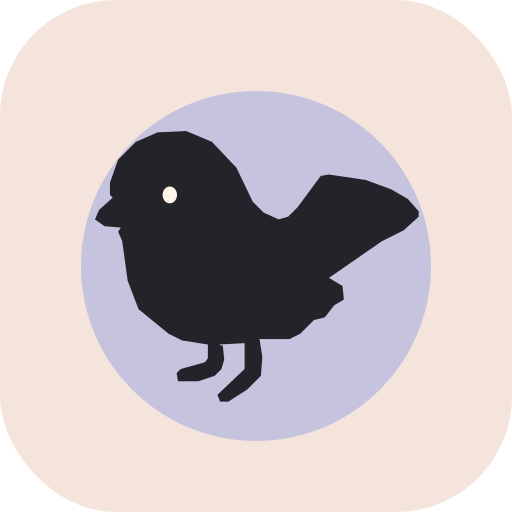
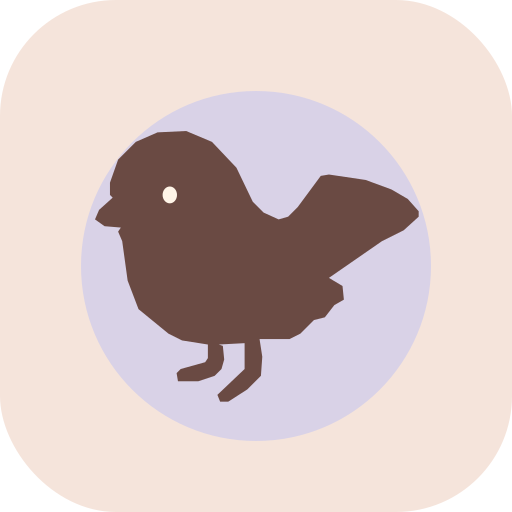
Add files via upload

Changed region(s): [[0.1875, 0.25, 0.8438, 0.7812]]

diff --git a/app.js b/app.js
@@ -27,13 +27,16 @@
   let hintIndex = -1;
   let usedStarters = {8: [], 10: []};
   let swipe = null;
+  let lastTap = null;
+  let lastPointerTapAt = 0;
+  const DOUBLE_TAP_MS = 340;
 
   try {
     const old = JSON.parse(localStorage.getItem(USED_KEY));
     if (old && typeof old === 'object') usedStarters = {...usedStarters, ...old};
   } catch (_) { /* storage may be disabled */ }
 
-  // The black bird silhouette is based on the supplied bird-emoji reference.
+  // The brown bird silhouette is based on the supplied bird-emoji reference.
   const birdSVG = `<svg viewBox="-7 -7 253 214" xmlns="http://www.w3.org/2000/svg" class="bird-drawing" aria-hidden="true"><path class="bird-shape" fill="currentColor" stroke="currentColor" stroke-width="1.4" stroke-linejoin="round" d="M 46 1 L 30 8 L 17 21 L 11 38 L 11 47 L 13 49 L 3 58 L 0 65 L 7 70 L 19 71 L 17 74 L 20 81 L 24 110 L 32 131 L 54 149 L 64 154 L 83 157 L 83 167 L 81 170 L 63 175 L 60 178 L 61 184 L 76 184 L 88 180 L 93 175 L 95 168 L 94 158 L 91 157 L 110 156 L 110 175 L 90 194 L 92 199 L 98 199 L 112 190 L 122 180 L 123 166 L 121 153 L 143 153 L 151 149 L 161 139 L 169 137 L 176 128 L 183 124 L 182 114 L 172 108 L 211 81 L 227 73 L 238 63 L 238 59 L 230 50 L 218 43 L 199 36 L 172 32 L 166 33 L 149 56 L 142 63 L 135 65 L 124 60 L 116 52 L 104 27 L 86 8 L 67 0 Z"/><ellipse class="bird-eye" cx="55" cy="47" rx="5.3" ry="6.2" fill="#fff5e8"/></svg>`;
   // The same silhouette is reused for color-region progress markers.
 
@@ -69,9 +72,10 @@
       const r = Math.floor(i / n), c = i % n;
       const mark = state.marks[i];
       const classes = ['cell'];
+      if (mark === 'x') classes.push('is-cross');
       if (hintIndex === i) classes.push('is-hinted');
       const glyph = mark === 'bird' ? birdSVG : mark === 'x' ? '<span class="cross">×</span>' : '';
-      const label = `${mark === 'bird' ? 'Bird' : mark === 'x' ? 'Eliminated' : 'Empty'}, row ${r + 1}, column ${c + 1}${mark === 'bird' ? ', tap to clear' : mark === 'x' ? ', tap to try a bird' : ', tap to mark X'}`;
+      const label = `${mark === 'bird' ? 'Bird' : mark === 'x' ? 'Eliminated' : 'Empty'}, row ${r + 1}, column ${c + 1}${mark === 'bird' ? ', tap to clear' : mark === 'x' ? ', tap to remove X, double tap for a bird' : ', tap to mark X, double tap for a bird'}`;
       html += `<button class="${classes.join(' ')}" data-i="${i}" type="button" style="--cell-color:${palette[state.regions[i]] || COLORS[state.regions[i] % COLORS.length]}" aria-label="${label}">${glyph}</button>`;
     }
     board.innerHTML = html;
@@ -87,7 +91,7 @@
     progress.innerHTML = rainbowOrder.map(region => {
       const found = placedColors.has(region);
       const color = palette[region] || COLORS[region % COLORS.length];
-      return `<span class="rainbow-bird${found ? ' is-found' : ''}" style="--bird-color:${color}" title="${found ? 'Bird placed' : 'Bird to find'}">${birdSVG}</span>`;
+      return `<span class="rainbow-bird${found ? ' is-found' : ''}" style="--bird-color:${color}" title="${found ? 'Bird placed' : 'Bird to find'}">${birdSVG}${found ? '<span class=\"progress-dot\" aria-hidden=\"true\"></span>' : ''}</span>`;
     }).join('');
     $('undo').disabled = !state.history || state.history.length === 0;
   }
@@ -270,15 +274,38 @@
     } catch (_) { worker = null; }
   }
 
-  // Each tap advances the cell: empty → X → bird → empty.
-  // The first X is tentative, even on the bird's square, because the next
-  // tap must always be able to place a bird there. Swipes stay X-only.
+  // A single tap toggles an X on/off. A *quick* second tap on the
+  // same square places a bird. Swiping still only adds Xs.
   function tapCell(index) {
     if (state.givens[index] || state.completed) return;
     const mark = state.marks[index];
-    if (mark === '') applyMark(index, 'x', false, true);
-    else if (mark === 'x') applyMark(index, 'bird');
-    else applyMark(index, '');
+    const now = Date.now();
+    const isDoubleTap = lastTap && lastTap.index === index &&
+      now - lastTap.time <= DOUBLE_TAP_MS;
+    lastTap = null;
+
+    if (isDoubleTap) {
+      // The first tap has already toggled X. Treat the two taps as one
+      // undoable bird-placement action, rather than making Undo visit X.
+      const solutionCell = state.solution[Math.floor(index / state.size)] === index % state.size;
+      if (!solutionCell) {
+        errorAt(index, 'Not quite. This square cannot hold a bird.');
+        return;
+      }
+      const historyLength = state.history?.length || 0;
+      applyMark(index, 'bird');
+      if (state.history?.length === historyLength + 1 && historyLength > 0) {
+        state.history.pop();
+        save();
+        render();
+      }
+      return;
+    }
+
+    // Tapping an existing bird clears it. Tapping an X removes it.
+    if (mark === 'bird' || mark === 'x') applyMark(index, '');
+    else applyMark(index, 'x', false, true);
+    if (mark !== 'bird') lastTap = {index, time: now};
   }
 
   function cellAtPoint(x, y) {
@@ -306,6 +333,7 @@
     state.marks[index] = 'x';
     const cell = board.querySelector(`[data-i="${index}"]`);
     if (cell) {
+      cell.classList.add('is-cross');
       cell.innerHTML = '<span class="cross">×</span>';
       cell.setAttribute('aria-label', `Eliminated, row ${Math.floor(index / state.size) + 1}, column ${index % state.size + 1}`);
     }
@@ -339,6 +367,7 @@
     if (!swipe.active && next !== -1 && next !== swipe.start &&
         Math.hypot(event.clientX - swipe.startX, event.clientY - swipe.startY) > 6) {
       swipe.active = true;
+      lastTap = null;
     }
     if (swipe.active) paintBetween(swipe.x, swipe.y, event.clientX, event.clientY);
     swipe.x = event.clientX;
@@ -355,6 +384,7 @@
       save();
       render();
     } else if (!previous.active && !canceled) {
+      lastPointerTapAt = Date.now();
       tapCell(previous.start);
     }
   }
@@ -362,13 +392,16 @@
   board.addEventListener('pointercancel', event => finishSwipe(event, true));
   // Keep keyboard-accessible buttons working; pointer taps are handled above.
   board.addEventListener('click', event => {
-    if (event.detail !== 0) return;
+    // Mobile browsers can dispatch a detail=0 click after pointerup.
+    // Ignore it to prevent a single touch from toggling the cell twice.
+    if (event.detail !== 0 || Date.now() - lastPointerTapAt < 500) return;
     const cell = event.target.closest('.cell');
     if (cell) tapCell(Number(cell.dataset.i));
   });
-  $('new-puzzle').addEventListener('click', newPuzzle);
-  $('hint').addEventListener('click', giveHint);
+  $('new-puzzle').addEventListener('click', () => { lastTap = null; newPuzzle(); });
+  $('hint').addEventListener('click', () => { lastTap = null; giveHint(); });
   $('undo').addEventListener('click', () => {
+    lastTap = null;
     if (!state.history?.length) return;
     const previous = state.history.pop();
     state.marks = previous.marks;
@@ -380,6 +413,7 @@
     render();
   });
   $('restart').addEventListener('click', () => {
+    lastTap = null;
     state.history = [];
     state.marks = Array(state.size * state.size).fill('');
     state.completed = false;
@@ -389,7 +423,7 @@
     save();
     render();
   });
-  $('play-again').addEventListener('click', newPuzzle);
+  $('play-again').addEventListener('click', () => { lastTap = null; newPuzzle(); });
   $('close-dialog').addEventListener('click', () => dialog.classList.add('hidden'));
 
   try {

diff --git a/style.css b/style.css
@@ -4,6 +4,8 @@
   --paper: #fffdfb;
   --brown: #805657;
   --soft-brown: #9c7470;
+  --bird-brown: #6a4a43;
+  --bird-brown-shadow: rgba(91, 62, 56, .16);
   --coral: #d9856d;
   --orange: #e9a25e;
   --outline: #eddfd8;
@@ -36,20 +38,27 @@ h1 { font-size: clamp(27px, 7vw, 35px); line-height: 1.02; margin: 0; font-weigh
 .rules strong { color: var(--brown); }
 .swipe-note { margin-top: 4px; color: #a78276; }
 .rule-dot { padding: 0 4px; color: #d2ada0; }
-/* One pastel silhouette for each color; black means a bird was placed. */
-.rainbow-progress { --progress-count: 10; width: min(100%, 390px); margin: 0 auto 11px; padding: 5px 9px; min-height: 37px; display: grid; grid-template-columns: repeat(var(--progress-count), minmax(0,1fr)); align-items: center; gap: 1px; background: #fffdfb; border-radius: 999px; box-shadow: 0 3px 12px rgba(126, 84, 72, .05); }
-.rainbow-bird { display: grid; place-items: center; min-width: 0; height: 31px; color: var(--bird-color); transition: color .18s, transform .18s; }
-.rainbow-bird.is-found { color: #25232b; transform: translateY(-1px); }
-.rainbow-bird .bird-drawing { width: 100%; max-height: 31px; height: 100%; }
+/* One pastel silhouette for each color; brown means a bird was placed. */
+.rainbow-progress { --progress-count: 10; width: min(100%, 350px); margin: 0 auto 11px; padding: 4px 6px; min-height: 30px; display: grid; grid-template-columns: repeat(var(--progress-count), minmax(0,1fr)); align-items: center; gap: 0; background: #fffdfb; border-radius: 999px; box-shadow: 0 3px 12px rgba(126, 84, 72, .05); }
+.rainbow-bird { position: relative; display: grid; place-items: center; min-width: 0; height: 26px; color: var(--bird-color); transition: color .18s, transform .18s; }
+.rainbow-bird.is-found { color: var(--bird-brown); transform: translateY(-1px); }
+.rainbow-bird .bird-drawing { width: 88%; max-height: 26px; height: 88%; }
 .rainbow-bird .bird-eye { display: none; }
+.rainbow-bird .progress-dot { display: none; }
+.rainbow-bird.is-found .progress-dot { display: block; position: absolute; right: 2px; bottom: 1px; width: 9px; height: 9px; border-radius: 50%; background: var(--bird-color); border: 1.5px solid #fffdfb; box-shadow: 0 1px 2px rgba(97, 69, 63, .14); }
 .play-area { background: #fff; padding: 5px; border-radius: 20px; box-shadow: 0 10px 22px rgba(122, 77, 75, .06); }
 .board { width: 100%; aspect-ratio: 1; display: grid; gap: 3px; grid-template-columns: repeat(var(--n), minmax(0, 1fr)); grid-template-rows: repeat(var(--n), minmax(0, 1fr)); touch-action: none; user-select: none; -webkit-user-select: none; }
 .cell { container-type: inline-size; min-width: 0; min-height: 0; border: 0; padding: 0; margin: 0; border-radius: 5px; position: relative; display: grid; place-items: center; background: var(--cell-color); overflow: hidden; transition: filter .1s, transform .1s; }
 .cell:active { filter: brightness(.94); transform: scale(.97); }
 .cell:focus-visible { outline: 2px solid #685077; outline-offset: -3px; z-index: 2; }
 .cell.is-given { background-image: repeating-linear-gradient(45deg,transparent,transparent 10px,rgba(255,255,255,.12) 10px,rgba(255,255,255,.12) 20px); }
-.cell .cross { font-family: 'Trebuchet MS', system-ui, sans-serif; font-size: clamp(10px, 79cqi, 40px); font-weight: 900; line-height: 1; color: #fffaf3; text-shadow: 0 2px 2px rgba(114,64,57,.17); transform: translateY(-2px); }
-.cell .bird-drawing { width: 92%; height: 92%; color: #212127; filter: drop-shadow(0 1px 1px rgba(67,54,67,.15)); }
+.cell.is-cross {
+  background-image: repeating-linear-gradient(45deg, rgba(255,255,255,.18), rgba(255,255,255,.18) 9px, rgba(255,255,255,.05) 9px, rgba(255,255,255,.05) 18px);
+  filter: saturate(.92) brightness(.985);
+}
+.cell.is-cross:active { filter: saturate(.92) brightness(.93); }
+.cell .cross { font-family: 'Trebuchet MS', system-ui, sans-serif; font-size: clamp(18px, 98cqi, 58px); font-weight: 900; line-height: .88; color: #fffaf3; text-shadow: 0 2px 2px rgba(114,64,57,.18); transform: translateY(-1px) scale(1.08); -webkit-text-stroke: clamp(1.1px, 5.6cqi, 3.2px) currentColor; }
+.cell .bird-drawing { width: 79%; height: 79%; color: var(--bird-brown); filter: drop-shadow(0 1px 1px var(--bird-brown-shadow)); }
 .cell.is-hinted { animation: hint-pulse .8s ease 2; box-shadow: inset 0 0 0 3px rgba(255,255,255,.96); }
 .cell.is-error { animation: error-wiggle .25s ease-in-out 2; box-shadow: inset 0 0 0 3px #cc6a67; }
 @keyframes hint-pulse { 50% { filter: saturate(1.6) brightness(1.08); } }
@@ -60,13 +69,11 @@ h1 { font-size: clamp(27px, 7vw, 35px); line-height: 1.02; margin: 0; font-weigh
 .actions button span { font-size: 21px; vertical-align: -2px; margin-right: 4px; }
 .actions button:disabled { opacity: .42; cursor: default; }
 .actions button:not(:disabled):active { background: #f5e5dd; }
-.footer { color: #ba9f94; font-size: 11px; text-align: center; font-weight: 700; margin: 18px 0 0; }
-.footer span { color: #d6a3a8; }
 .overlay { position: fixed; inset: 0; background: rgba(83,58,61,.38); display: grid; place-items: center; padding: 25px; z-index: 8; }
 .hidden { display: none !important; }
 .win-card { background: #fffbf7; border-radius: 28px; width: min(100%, 340px); padding: 27px 24px; display: flex; flex-direction: column; gap: 12px; align-items: center; box-shadow: 0 20px 70px #432f3344; }
 .win-bird { display: flex; align-items: center; justify-content: center; gap: 4px; }
-.win-bird .bird-drawing { color: #24232a; width: 74px; height: 64px; }
+.win-bird .bird-drawing { color: var(--bird-brown); width: 74px; height: 64px; }
 .win-bird span { font-size: 35px; }
 .win-card h2 { font-size: 26px; margin: 0; }
 .win-card p { color: #ac837b; margin: 0 0 4px; text-align: center; }
@@ -77,6 +84,5 @@ h1 { font-size: clamp(27px, 7vw, 35px); line-height: 1.02; margin: 0; font-weigh
 
 /* Preview: the clear, single-action layout. */
 .rules { margin-top: 10px; margin-bottom: 18px; }
-.new-puzzle-bottom { margin: 7px 0 0; }
+.new-puzzle-bottom { margin-top: 2px; }
 .new-puzzle-bottom .new-button { width: 100%; min-height: 52px; border-radius: 15px; font-size: 15px; }
-.footer { margin-top: 18px; }

diff --git a/index.html b/index.html
@@ -22,7 +22,7 @@
       </div>
     </header>
 
-    <div class="rules">One <strong>bird</strong> per row, column &amp; color <span class="rule-dot">•</span> Birds can't touch, even diagonally<div class="swipe-note">Tap once for ×, twice for a bird · Swipe to mark ×</div></div>
+    <div class="rules">One <strong>bird</strong> per row, column &amp; color <span class="rule-dot">•</span> Birds can't touch, even diagonally<div class="swipe-note">Tap: add/remove × · Double-tap: bird · Swipe: ×</div></div>
 
     <div class="rainbow-progress" id="progress" role="img" aria-label="Bird colors to find"></div>
 
@@ -30,7 +30,7 @@
       <div class="board" id="board" role="group" aria-label="Birdoku grid"></div>
     </section>
 
-    <div class="message" id="message" aria-live="polite">Tap once for ×, again for a bird · Swipe to cross out squares.</div>
+    <div class="message" id="message" aria-live="polite">Tap to add/remove × · Double-tap for a bird · Swipe to cross out squares.</div>
 
     <nav class="actions" aria-label="Game actions">
       <button type="button" id="undo"><span aria-hidden="true">↶</span> Undo</button>
@@ -38,8 +38,7 @@
       <button type="button" id="hint"><span aria-hidden="true">✧</span> Hint</button>
     </nav>
     <div class="new-puzzle-bottom"><button type="button" class="new-button" id="new-puzzle"><span aria-hidden="true">↻</span> New puzzle</button></div>
-    <p class="footer">No ads · No account · Play offline <span aria-hidden="true">♡</span></p>
-  </main>
+</main>
 
   <div class="overlay hidden" id="win-dialog" role="dialog" aria-modal="true" aria-labelledby="win-title">
     <div class="win-card">

diff --git a/sw.js b/sw.js
@@ -1,4 +1,4 @@
-const CACHE_NAME = 'birdoku-offline-v7';
+const CACHE_NAME = 'birdoku-offline-v10';
 const ASSETS = [
   './', './index.html', './style.css', './app.js', './generator.js', './worker.js',
   './starters.js', './icon.svg', './icon-192.png', './icon-512.png', './manifest.webmanifest'
